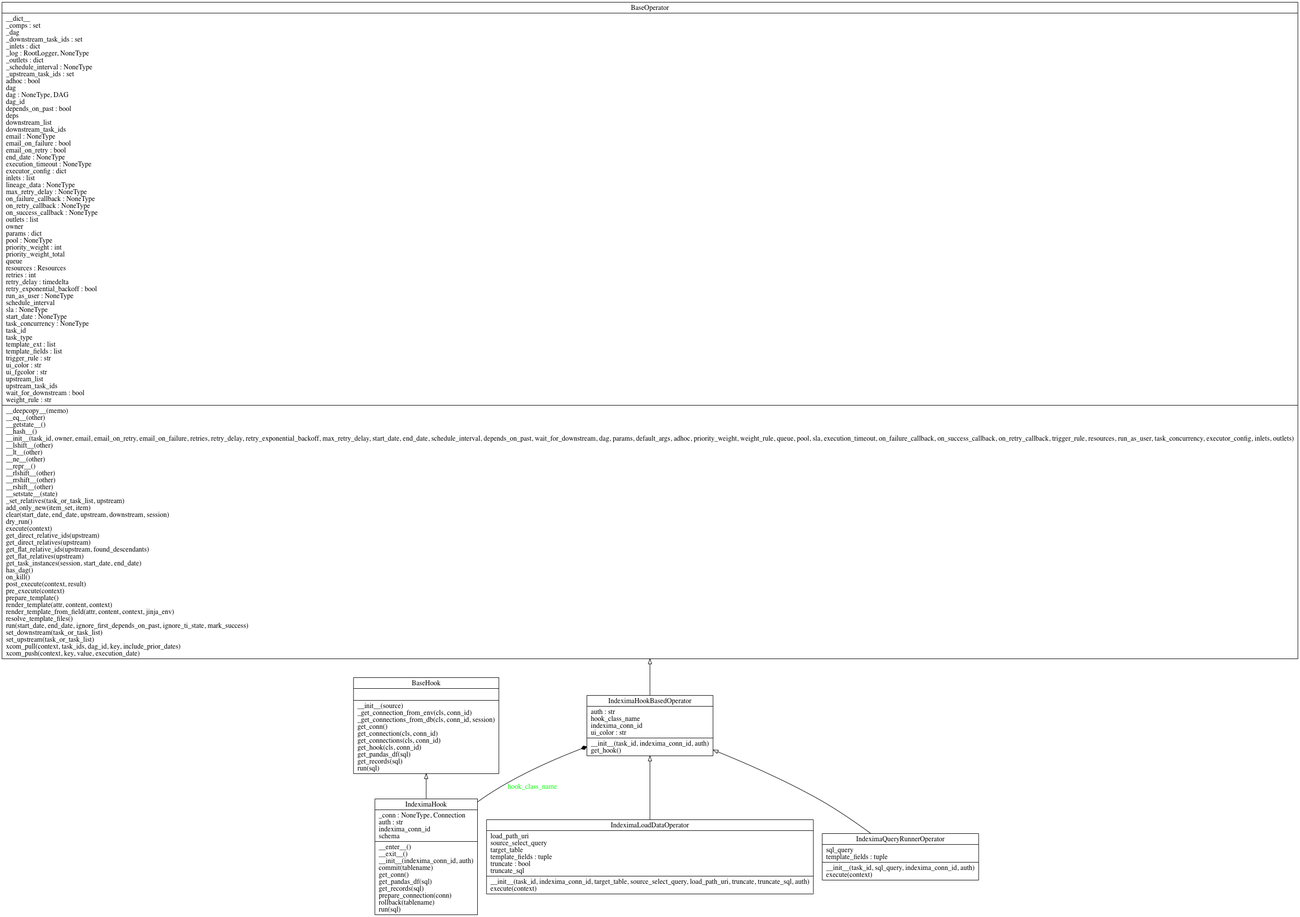
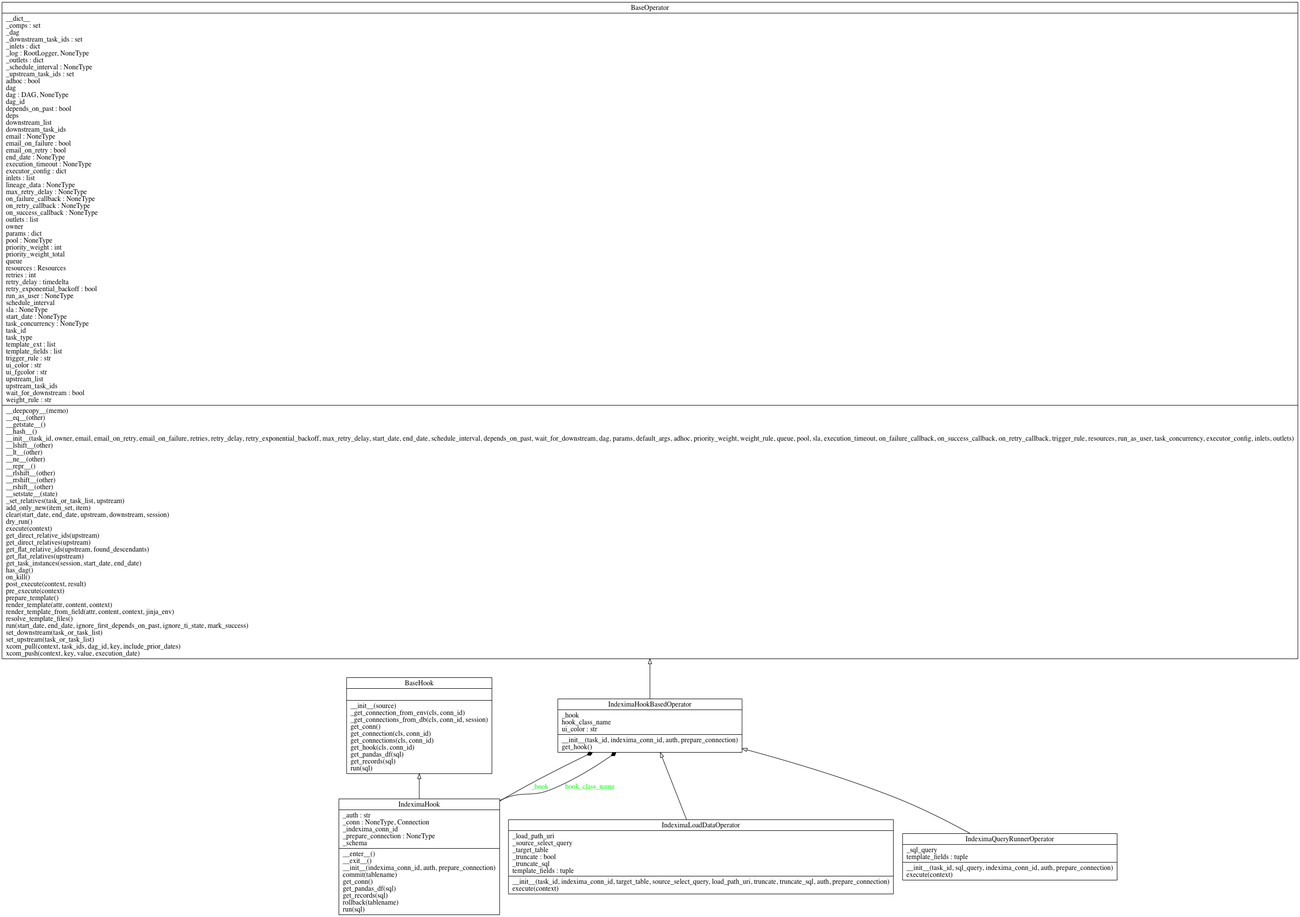
add doc

diff --git a/docs/api/index.html b/docs/api/index.html
@@ -374,6 +374,7 @@
 <p>This root module expose:</p>
 <ul>
 <li>IndeximaHook</li>
+<li>PrepareConnectionHandler</li>
 <li>IndeximaHookBasedOperator</li>
 <li>IndeximaQueryRunnerOperator</li>
 <li>IndeximaLoadDataOperator</li>
@@ -381,7 +382,7 @@
 <h1 id="airflow_indeximahook">airflow_indexima.hook<a class="headerlink" href="#airflow_indeximahook" title="Permanent link">&para;</a></h1>
 <p>Indexima hook module definition.</p>
 <h2 id="indeximahook">IndeximaHook<a class="headerlink" href="#indeximahook" title="Permanent link">&para;</a></h2>
-<p><div class="codehilite"><pre><span></span><span class="n">IndeximaHook</span><span class="p">(</span><span class="bp">self</span><span class="p">,</span> <span class="n">indexima_conn_id</span><span class="p">:</span><span class="nb">str</span><span class="p">,</span> <span class="n">auth</span><span class="p">:</span><span class="nb">str</span><span class="o">=</span><span class="s1">&#39;CUSTOM&#39;</span><span class="p">,</span> <span class="o">*</span><span class="n">args</span><span class="p">,</span> <span class="o">**</span><span class="n">kwargs</span><span class="p">)</span>
+<p><div class="codehilite"><pre><span></span><span class="n">IndeximaHook</span><span class="p">(</span><span class="bp">self</span><span class="p">,</span> <span class="n">indexima_conn_id</span><span class="p">:</span><span class="nb">str</span><span class="p">,</span> <span class="n">auth</span><span class="p">:</span><span class="nb">str</span><span class="o">=</span><span class="s1">&#39;CUSTOM&#39;</span><span class="p">,</span> <span class="n">prepare_connection</span><span class="p">:</span><span class="n">Union</span><span class="p">[</span><span class="n">Callable</span><span class="p">[[</span><span class="n">airflow</span><span class="o">.</span><span class="n">models</span><span class="o">.</span><span class="n">Connection</span><span class="p">],</span> <span class="n">airflow</span><span class="o">.</span><span class="n">models</span><span class="o">.</span><span class="n">Connection</span><span class="p">],</span> <span class="n">NoneType</span><span class="p">]</span><span class="o">=</span><span class="kc">None</span><span class="p">,</span> <span class="o">*</span><span class="n">args</span><span class="p">,</span> <span class="o">**</span><span class="n">kwargs</span><span class="p">)</span>
 </pre></div>
 Indexima hook implementation.</p>
 <p>This implementation can be used as a context manager like this:</p>
@@ -389,19 +390,80 @@ Indexima hook implementation.</p>
     <span class="n">hook</span><span class="o">.</span><span class="n">run</span><span class="p">(</span><span class="s1">&#39;select ...&#39;</span><span class="p">)</span>
 </pre></div>
 
+<p>This implementation can be customized with a <code>prepare_connection</code>function
+which must have this profile: Callable[[Connection], Connection] (alias PrepareConnectionHandler)</p>
+<p>In this handler you could retreive credentials from other backeng like aws ssm.</p>
+<h3 id="get_conn">get_conn<a class="headerlink" href="#get_conn" title="Permanent link">&para;</a></h3>
+<p><div class="codehilite"><pre><span></span><span class="n">IndeximaHook</span><span class="o">.</span><span class="n">get_conn</span><span class="p">(</span><span class="bp">self</span><span class="p">)</span> <span class="o">-&gt;</span> <span class="n">pyhive</span><span class="o">.</span><span class="n">hive</span><span class="o">.</span><span class="n">Connection</span>
+</pre></div>
+Return a hive connection.</p>
+<h3 id="get_records">get_records<a class="headerlink" href="#get_records" title="Permanent link">&para;</a></h3>
+<p><div class="codehilite"><pre><span></span><span class="n">IndeximaHook</span><span class="o">.</span><span class="n">get_records</span><span class="p">(</span><span class="bp">self</span><span class="p">,</span> <span class="n">sql</span><span class="p">:</span><span class="nb">str</span><span class="p">)</span>
+</pre></div>
+Execute query and return curror.</p>
+<p>(alias of run method)</p>
+<h3 id="run">run<a class="headerlink" href="#run" title="Permanent link">&para;</a></h3>
+<p><div class="codehilite"><pre><span></span><span class="n">IndeximaHook</span><span class="o">.</span><span class="n">run</span><span class="p">(</span><span class="bp">self</span><span class="p">,</span> <span class="n">sql</span><span class="p">:</span><span class="nb">str</span><span class="p">)</span>
+</pre></div>
+Execute query and return curror.</p>
+<h3 id="commit">commit<a class="headerlink" href="#commit" title="Permanent link">&para;</a></h3>
+<p><div class="codehilite"><pre><span></span><span class="n">IndeximaHook</span><span class="o">.</span><span class="n">commit</span><span class="p">(</span><span class="bp">self</span><span class="p">,</span> <span class="n">tablename</span><span class="p">:</span><span class="nb">str</span><span class="p">)</span>
+</pre></div>
+Execute a simple commit on table.</p>
+<h3 id="rollback">rollback<a class="headerlink" href="#rollback" title="Permanent link">&para;</a></h3>
+<p><div class="codehilite"><pre><span></span><span class="n">IndeximaHook</span><span class="o">.</span><span class="n">rollback</span><span class="p">(</span><span class="bp">self</span><span class="p">,</span> <span class="n">tablename</span><span class="p">:</span><span class="nb">str</span><span class="p">)</span>
+</pre></div>
+Execute a simple rollback on table.</p>
 <h1 id="airflow_indeximaoperator">airflow_indexima.operator<a class="headerlink" href="#airflow_indeximaoperator" title="Permanent link">&para;</a></h1>
 <p>Indexima operators module definition.</p>
 <h2 id="indeximahookbasedoperator">IndeximaHookBasedOperator<a class="headerlink" href="#indeximahookbasedoperator" title="Permanent link">&para;</a></h2>
-<p><div class="codehilite"><pre><span></span><span class="n">IndeximaHookBasedOperator</span><span class="p">(</span><span class="bp">self</span><span class="p">,</span> <span class="n">task_id</span><span class="p">:</span><span class="nb">str</span><span class="p">,</span> <span class="n">indexima_conn_id</span><span class="p">:</span><span class="nb">str</span><span class="p">,</span> <span class="n">auth</span><span class="p">:</span><span class="nb">str</span><span class="o">=</span><span class="s1">&#39;CUSTOM&#39;</span><span class="p">,</span> <span class="o">*</span><span class="n">args</span><span class="p">,</span> <span class="o">**</span><span class="n">kwargs</span><span class="p">)</span>
+<p><div class="codehilite"><pre><span></span><span class="n">IndeximaHookBasedOperator</span><span class="p">(</span><span class="bp">self</span><span class="p">,</span> <span class="n">task_id</span><span class="p">:</span><span class="nb">str</span><span class="p">,</span> <span class="n">indexima_conn_id</span><span class="p">:</span><span class="nb">str</span><span class="p">,</span> <span class="n">auth</span><span class="p">:</span><span class="nb">str</span><span class="o">=</span><span class="s1">&#39;CUSTOM&#39;</span><span class="p">,</span> <span class="n">prepare_connection</span><span class="p">:</span><span class="n">Union</span><span class="p">[</span><span class="n">Callable</span><span class="p">[[</span><span class="n">airflow</span><span class="o">.</span><span class="n">models</span><span class="o">.</span><span class="n">Connection</span><span class="p">],</span> <span class="n">airflow</span><span class="o">.</span><span class="n">models</span><span class="o">.</span><span class="n">Connection</span><span class="p">],</span> <span class="n">NoneType</span><span class="p">]</span><span class="o">=</span><span class="kc">None</span><span class="p">,</span> <span class="o">*</span><span class="n">args</span><span class="p">,</span> <span class="o">**</span><span class="n">kwargs</span><span class="p">)</span>
 </pre></div>
 Our base class for indexima operator.</p>
-<p>if you would customize IndeximaHook, you could define another one with <code>hook_class_name</code> field.</p>
+<h3 id="ui_color">ui_color<a class="headerlink" href="#ui_color" title="Permanent link">&para;</a></h3>
+<p>str(object='') -&gt; str
+str(bytes_or_buffer[, encoding[, errors]]) -&gt; str</p>
+<p>Create a new string object from the given object. If encoding or
+errors is specified, then the object must expose a data buffer
+that will be decoded using the given encoding and error handler.
+Otherwise, returns the result of object.<strong>str</strong>() (if defined)
+or repr(object).
+encoding defaults to sys.getdefaultencoding().
+errors defaults to 'strict'.</p>
+<h3 id="indeximahook_1">IndeximaHook<a class="headerlink" href="#indeximahook_1" title="Permanent link">&para;</a></h3>
+<p><div class="codehilite"><pre><span></span><span class="n">IndeximaHookBasedOperator</span><span class="o">.</span><span class="n">IndeximaHook</span><span class="p">(</span><span class="bp">self</span><span class="p">,</span> <span class="n">indexima_conn_id</span><span class="p">:</span><span class="nb">str</span><span class="p">,</span> <span class="n">auth</span><span class="p">:</span><span class="nb">str</span><span class="o">=</span><span class="s1">&#39;CUSTOM&#39;</span><span class="p">,</span> <span class="n">prepare_connection</span><span class="p">:</span><span class="n">Union</span><span class="p">[</span><span class="n">Callable</span><span class="p">[[</span><span class="n">airflow</span><span class="o">.</span><span class="n">models</span><span class="o">.</span><span class="n">Connection</span><span class="p">],</span> <span class="n">airflow</span><span class="o">.</span><span class="n">models</span><span class="o">.</span><span class="n">Connection</span><span class="p">],</span> <span class="n">NoneType</span><span class="p">]</span><span class="o">=</span><span class="kc">None</span><span class="p">,</span> <span class="o">*</span><span class="n">args</span><span class="p">,</span> <span class="o">**</span><span class="n">kwargs</span><span class="p">)</span>
+</pre></div>
+Indexima hook implementation.</p>
+<p>This implementation can be used as a context manager like this:</p>
+<div class="codehilite"><pre><span></span><span class="k">with</span> <span class="n">IndeximaHook</span><span class="p">(</span><span class="o">...</span><span class="p">)</span> <span class="k">as</span> <span class="n">hook</span><span class="p">:</span>
+    <span class="n">hook</span><span class="o">.</span><span class="n">run</span><span class="p">(</span><span class="s1">&#39;select ...&#39;</span><span class="p">)</span>
+</pre></div>
+
+<p>This implementation can be customized with a <code>prepare_connection</code>function
+which must have this profile: Callable[[Connection], Connection] (alias PrepareConnectionHandler)</p>
+<p>In this handler you could retreive credentials from other backeng like aws ssm.</p>
+<h3 id="get_hook">get_hook<a class="headerlink" href="#get_hook" title="Permanent link">&para;</a></h3>
+<p><div class="codehilite"><pre><span></span><span class="n">IndeximaHookBasedOperator</span><span class="o">.</span><span class="n">get_hook</span><span class="p">(</span><span class="bp">self</span><span class="p">)</span> <span class="o">-&gt;</span> <span class="n">airflow_indexima</span><span class="o">.</span><span class="n">hook</span><span class="o">.</span><span class="n">IndeximaHook</span>
+</pre></div>
+Return a configured IndeximaHook instance.</p>
 <h2 id="indeximaqueryrunneroperator">IndeximaQueryRunnerOperator<a class="headerlink" href="#indeximaqueryrunneroperator" title="Permanent link">&para;</a></h2>
-<p><div class="codehilite"><pre><span></span><span class="n">IndeximaQueryRunnerOperator</span><span class="p">(</span><span class="bp">self</span><span class="p">,</span> <span class="n">task_id</span><span class="p">:</span><span class="nb">str</span><span class="p">,</span> <span class="n">sql_query</span><span class="p">:</span><span class="nb">str</span><span class="p">,</span> <span class="n">indexima_conn_id</span><span class="p">:</span><span class="nb">str</span><span class="p">,</span> <span class="n">auth</span><span class="p">:</span><span class="nb">str</span><span class="o">=</span><span class="s1">&#39;CUSTOM&#39;</span><span class="p">,</span> <span class="o">*</span><span class="n">args</span><span class="p">,</span> <span class="o">**</span><span class="n">kwargs</span><span class="p">)</span>
+<p><div class="codehilite"><pre><span></span><span class="n">IndeximaQueryRunnerOperator</span><span class="p">(</span><span class="bp">self</span><span class="p">,</span> <span class="n">task_id</span><span class="p">:</span><span class="nb">str</span><span class="p">,</span> <span class="n">sql_query</span><span class="p">:</span><span class="nb">str</span><span class="p">,</span> <span class="n">indexima_conn_id</span><span class="p">:</span><span class="nb">str</span><span class="p">,</span> <span class="n">auth</span><span class="p">:</span><span class="nb">str</span><span class="o">=</span><span class="s1">&#39;CUSTOM&#39;</span><span class="p">,</span> <span class="n">prepare_connection</span><span class="p">:</span><span class="n">Union</span><span class="p">[</span><span class="n">Callable</span><span class="p">[[</span><span class="n">airflow</span><span class="o">.</span><span class="n">models</span><span class="o">.</span><span class="n">Connection</span><span class="p">],</span> <span class="n">airflow</span><span class="o">.</span><span class="n">models</span><span class="o">.</span><span class="n">Connection</span><span class="p">],</span> <span class="n">NoneType</span><span class="p">]</span><span class="o">=</span><span class="kc">None</span><span class="p">,</span> <span class="o">*</span><span class="n">args</span><span class="p">,</span> <span class="o">**</span><span class="n">kwargs</span><span class="p">)</span>
 </pre></div>
 A simple query executor.</p>
+<h3 id="template_fields">template_fields<a class="headerlink" href="#template_fields" title="Permanent link">&para;</a></h3>
+<p>tuple() -&gt; empty tuple
+tuple(iterable) -&gt; tuple initialized from iterable's items</p>
+<p>If the argument is a tuple, the return value is the same object.</p>
+<h3 id="execute">execute<a class="headerlink" href="#execute" title="Permanent link">&para;</a></h3>
+<p><div class="codehilite"><pre><span></span><span class="n">IndeximaQueryRunnerOperator</span><span class="o">.</span><span class="n">execute</span><span class="p">(</span><span class="bp">self</span><span class="p">,</span> <span class="n">context</span><span class="p">)</span>
+</pre></div>
+Execute sql query.</p>
+<p><strong>Parameters</strong></p>
+<ul>
+<li><strong>context</strong>: dag context</li>
+</ul>
 <h2 id="indeximaloaddataoperator">IndeximaLoadDataOperator<a class="headerlink" href="#indeximaloaddataoperator" title="Permanent link">&para;</a></h2>
-<p><div class="codehilite"><pre><span></span><span class="n">IndeximaLoadDataOperator</span><span class="p">(</span><span class="bp">self</span><span class="p">,</span> <span class="n">task_id</span><span class="p">:</span><span class="nb">str</span><span class="p">,</span> <span class="n">indexima_conn_id</span><span class="p">:</span><span class="nb">str</span><span class="p">,</span> <span class="n">target_table</span><span class="p">:</span><span class="nb">str</span><span class="p">,</span> <span class="n">source_select_query</span><span class="p">:</span><span class="nb">str</span><span class="p">,</span> <span class="n">load_path_uri</span><span class="p">:</span><span class="nb">str</span><span class="p">,</span> <span class="n">truncate</span><span class="p">:</span><span class="nb">bool</span><span class="o">=</span><span class="kc">False</span><span class="p">,</span> <span class="n">truncate_sql</span><span class="p">:</span><span class="n">Union</span><span class="p">[</span><span class="nb">str</span><span class="p">,</span> <span class="n">NoneType</span><span class="p">]</span><span class="o">=</span><span class="kc">None</span><span class="p">,</span> <span class="n">auth</span><span class="p">:</span><span class="nb">str</span><span class="o">=</span><span class="s1">&#39;CUSTOM&#39;</span><span class="p">,</span> <span class="o">*</span><span class="n">args</span><span class="p">,</span> <span class="o">**</span><span class="n">kwargs</span><span class="p">)</span>
+<p><div class="codehilite"><pre><span></span><span class="n">IndeximaLoadDataOperator</span><span class="p">(</span><span class="bp">self</span><span class="p">,</span> <span class="n">task_id</span><span class="p">:</span><span class="nb">str</span><span class="p">,</span> <span class="n">indexima_conn_id</span><span class="p">:</span><span class="nb">str</span><span class="p">,</span> <span class="n">target_table</span><span class="p">:</span><span class="nb">str</span><span class="p">,</span> <span class="n">source_select_query</span><span class="p">:</span><span class="nb">str</span><span class="p">,</span> <span class="n">load_path_uri</span><span class="p">:</span><span class="nb">str</span><span class="p">,</span> <span class="n">truncate</span><span class="p">:</span><span class="nb">bool</span><span class="o">=</span><span class="kc">False</span><span class="p">,</span> <span class="n">truncate_sql</span><span class="p">:</span><span class="n">Union</span><span class="p">[</span><span class="nb">str</span><span class="p">,</span> <span class="n">NoneType</span><span class="p">]</span><span class="o">=</span><span class="kc">None</span><span class="p">,</span> <span class="n">auth</span><span class="p">:</span><span class="nb">str</span><span class="o">=</span><span class="s1">&#39;CUSTOM&#39;</span><span class="p">,</span> <span class="n">prepare_connection</span><span class="p">:</span><span class="n">Union</span><span class="p">[</span><span class="n">Callable</span><span class="p">[[</span><span class="n">airflow</span><span class="o">.</span><span class="n">models</span><span class="o">.</span><span class="n">Connection</span><span class="p">],</span> <span class="n">airflow</span><span class="o">.</span><span class="n">models</span><span class="o">.</span><span class="n">Connection</span><span class="p">],</span> <span class="n">NoneType</span><span class="p">]</span><span class="o">=</span><span class="kc">None</span><span class="p">,</span> <span class="o">*</span><span class="n">args</span><span class="p">,</span> <span class="o">**</span><span class="n">kwargs</span><span class="p">)</span>
 </pre></div>
 Redshift to Indexima with mode full (truncate and import).</p>
 <p>Operations:</p>
@@ -411,7 +473,11 @@ Redshift to Indexima with mode full (truncate and import).</p>
 </pre></div>
 
 
-<p>All fields ('load_path_uri', 'source_select_query', 'truncate_sql') support airflow macro.</p>
+<p>All fields ('target_table', 'load_path_uri', 'source_select_query', 'truncate_sql') support airflow macro.</p>
+<h3 id="template_fields_1">template_fields<a class="headerlink" href="#template_fields_1" title="Permanent link">&para;</a></h3>
+<p>tuple() -&gt; empty tuple
+tuple(iterable) -&gt; tuple initialized from iterable's items</p>
+<p>If the argument is a tuple, the return value is the same object.</p>
                 
                   
                 

diff --git a/docs/index.html b/docs/index.html
@@ -565,15 +565,13 @@
                 
                 
                 <h1 id="airflow-indexima">airflow-indexima<a class="headerlink" href="#airflow-indexima" title="Permanent link">&para;</a></h1>
+<p>WORK IN PROGRESS !!</p>
 <p><a href="https://travis-ci.org/geronimo-iia/airflow-indexima"><img alt="Unix Build Status" src="https://img.shields.io/travis/geronimo-iia/airflow-indexima/master.svg?label=unix" /></a>
-<a href="https://coveralls.io/r/geronimo-iia/airflow-indexima"><img alt="Coverage Status" src="https://img.shields.io/coveralls/geronimo-iia/airflow-indexima/master.svg" /></a>
-<a href="https://www.codacy.com/app/geronimo-iia/airflow-indexima?utm_source=github.com&amp;amp;utm_medium=referral&amp;amp;utm_content=geronimo-iia/airflow-indexima&amp;amp;utm_campaign=Badge_Grade"><img alt="Codacy Badge" src="https://api.codacy.com/project/badge/Grade/fe669a02b4aa46b5b1faf619ba2bf382" /></a>
-<a href="https://scrutinizer-ci.com/g/geronimo-iia/airflow-indexima/?branch=master"><img alt="Scrutinizer Code Quality" src="https://img.shields.io/scrutinizer/g/geronimo-iia/airflow-indexima.svg" /></a>
 <a href="https://pypi.org/project/airflow-indexima"><img alt="PyPI Version" src="https://img.shields.io/pypi/v/airflow-indexima.svg" /></a>
 <a href="https://pypi.org/project/airflow-indexima"><img alt="PyPI License" src="https://img.shields.io/pypi/l/airflow-indexima.svg" /></a></p>
 <p>Versions following <a href="https://semver.org/">Semantic Versioning</a></p>
 <h2 id="overview">Overview<a class="headerlink" href="#overview" title="Permanent link">&para;</a></h2>
-<p>Indexima Airflow integration based on pyhive.</p>
+<p><a href="https://indexima.com/">Indexima</a> <a href="https://airflow.apache.org/">Airflow</a> integration based on pyhive.</p>
 <h2 id="setup">Setup<a class="headerlink" href="#setup" title="Permanent link">&para;</a></h2>
 <h3 id="requirements">Requirements<a class="headerlink" href="#requirements" title="Permanent link">&para;</a></h3>
 <ul>
@@ -595,14 +593,39 @@
 &gt;&gt;&gt; airflow_indexima.__version__
 </pre></div>
 
-<p>See <a href="https://geronimo-iia.github.io/airflow-indexima/api">Api documentation</a></p>
+<p>See <a href="https://geronimo-iia.github.io/airflow-indexima/api/">Api documentation</a></p>
 <h2 id="example">Example<a class="headerlink" href="#example" title="Permanent link">&para;</a></h2>
 <h3 id="a-simple-query">a simple query<a class="headerlink" href="#a-simple-query" title="Permanent link">&para;</a></h3>
-<div class="codehilite"><pre><span></span>
+<div class="codehilite"><pre><span></span><span class="kn">from</span> <span class="nn">airflow_indexima</span> <span class="kn">import</span> <span class="n">IndeximaQueryRunnerOperator</span>
+
+<span class="o">...</span>
+
+<span class="k">with</span> <span class="n">dag</span><span class="p">:</span>
+    <span class="o">...</span>
+    <span class="n">op</span> <span class="o">=</span> <span class="n">IndeximaQueryRunnerOperator</span><span class="p">(</span>
+        <span class="n">task_id</span> <span class="o">=</span> <span class="s1">&#39;my-task-id&#39;</span><span class="p">,</span>
+        <span class="n">sql_query</span><span class="o">=</span> <span class="s1">&#39;DELETE FROM Client WHERE GRPD = 1&#39;</span><span class="p">,</span>
+        <span class="n">indexima_conn_id</span><span class="o">=</span><span class="s1">&#39;my-indexima-connection&#39;</span>
+    <span class="p">)</span>
+    <span class="o">...</span>
 </pre></div>
 
 <h3 id="a-load-into-indexima">a load into indexima<a class="headerlink" href="#a-load-into-indexima" title="Permanent link">&para;</a></h3>
-<div class="codehilite"><pre><span></span>
+<div class="codehilite"><pre><span></span><span class="kn">from</span> <span class="nn">airflow_indexima</span> <span class="kn">import</span> <span class="n">IndeximaLoadDataOperator</span>
+
+<span class="o">...</span>
+
+<span class="k">with</span> <span class="n">dag</span><span class="p">:</span>
+    <span class="o">...</span>
+    <span class="n">op</span> <span class="o">=</span> <span class="n">IndeximaLoadDataOperator</span><span class="p">(</span>
+        <span class="n">task_id</span> <span class="o">=</span> <span class="s1">&#39;my-task-id&#39;</span><span class="p">,</span>
+        <span class="n">indexima_conn_id</span><span class="o">=</span><span class="s1">&#39;my-indexima-connection&#39;</span><span class="p">,</span>
+        <span class="n">target_table</span><span class="o">=</span><span class="s1">&#39;Client&#39;</span><span class="p">,</span>
+        <span class="n">source_select_query</span><span class="o">=</span><span class="s1">&#39;select * from dsi.client&#39;</span><span class="p">,</span>
+        <span class="n">truncate</span><span class="o">=</span><span class="kc">True</span><span class="p">,</span>
+        <span class="n">load_path_uri</span><span class="o">=</span><span class="s1">&#39;jdbc:redshift://my-private-instance.com:5439/db_client?ssl=true&amp;user=airflow-user&amp;password=XXXXXXXX&#39;</span>
+    <span class="p">)</span>
+    <span class="o">...</span>
 </pre></div>
 
 <h2 id="license">License<a class="headerlink" href="#license" title="Permanent link">&para;</a></h2>

diff --git a/docs/changelog/index.html b/docs/changelog/index.html
@@ -378,7 +378,7 @@
 <li>add Simple Operator</li>
 <li>add pyhive, ...</li>
 <li>configure documentation</li>
-<li>add a way to customize credentials retreival</li>
+<li>add a way to customize credentials retreival (with a prepare connection function handler)</li>
 </ul>
                 
                   

diff --git a/airflow_indexima/operator.py b/airflow_indexima/operator.py
@@ -8,14 +8,11 @@ from airflow.utils.decorators import apply_defaults
 from airflow_indexima.hook import IndeximaHook, PrepareConnectionHandler
 
 
-__all__ = ['IndeximaQueryRunnerOperator', 'IndeximaHookBasedOperator']
+__all__ = ['IndeximaHookBasedOperator', 'IndeximaQueryRunnerOperator', 'IndeximaHookBasedOperator']
 
 
 class IndeximaHookBasedOperator(BaseOperator):
-    """Our base class for indexima operator.
-
-    if you would customize IndeximaHook, you could define another one with ```hook_class_name``` field.
-    """
+    """Our base class for indexima operator."""
 
     hook_class_name = IndeximaHook
 
@@ -36,7 +33,7 @@ class IndeximaHookBasedOperator(BaseOperator):
             indexima_conn_id=indexima_conn_id, auth=auth, prepare_connection=prepare_connection
         )
 
-    def get_hook(self):
+    def get_hook(self) -> IndeximaHook:
         """Return a configured IndeximaHook instance."""
         return self._hook
 
@@ -68,6 +65,11 @@ class IndeximaQueryRunnerOperator(IndeximaHookBasedOperator):
         self._sql_query = sql_query
 
     def execute(self, context):
+        """Execute sql query.
+
+        # Parameters
+            context: dag context
+        """
         self.get_hook().run(self._sql_query)
 
 

diff --git a/airflow_indexima/hook.py b/airflow_indexima/hook.py
@@ -38,6 +38,14 @@ class IndeximaHook(BaseHook):
         *args,
         **kwargs,
     ):
+        """Create an IndeximaHook instance.
+
+        # Parameters
+            indexima_conn_id(str): connection identifier
+            auth(str): pyhive authentication mode (defaults: 'CUSTOM')
+            prepare_connection (Optional[PrepareConnectionHandler]) : optional function handler 
+                to post process connection parameter(default: None)
+        """
         super(IndeximaHook, self).__init__(source='indexima', *args, **kwargs)
         self._indexima_conn_id = indexima_conn_id
         self._schema = kwargs.pop("schema", None)

diff --git a/README.md b/README.md
@@ -51,13 +51,39 @@ See [Api documentation](https://geronimo-iia.github.io/airflow-indexima/api/)
 ### a simple query
 
 ```python
+from airflow_indexima import IndeximaQueryRunnerOperator
 
+...
+
+with dag:
+    ...
+    op = IndeximaQueryRunnerOperator(
+        task_id = 'my-task-id',
+        sql_query= 'DELETE FROM Client WHERE GRPD = 1',
+        indexima_conn_id='my-indexima-connection'
+    )
+    ...
 ```
 
 
 ### a load into indexima
 
 ```python
+from airflow_indexima import IndeximaLoadDataOperator
+
+...
+
+with dag:
+    ...
+    op = IndeximaLoadDataOperator(
+        task_id = 'my-task-id',
+        indexima_conn_id='my-indexima-connection',
+        target_table='Client',
+        source_select_query='select * from dsi.client',
+        truncate=True,
+        load_path_uri='jdbc:redshift://my-private-instance.com:5439/db_client?ssl=true&user=airflow-user&password=XXXXXXXX'
+    )
+    ...
 
 ```
 
